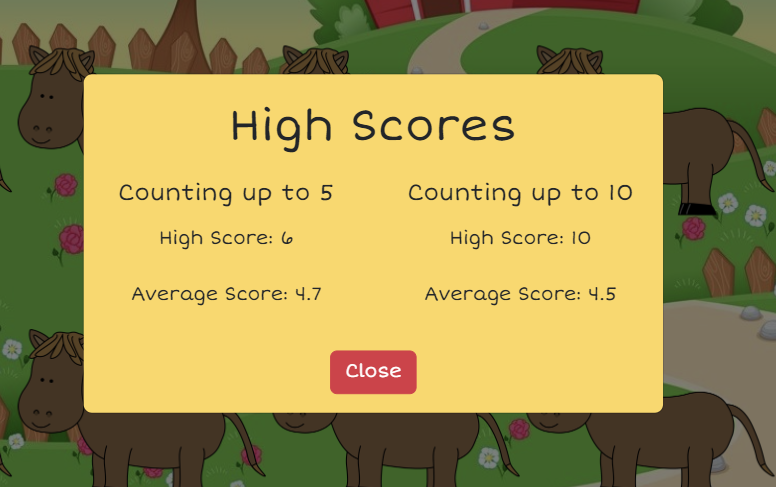
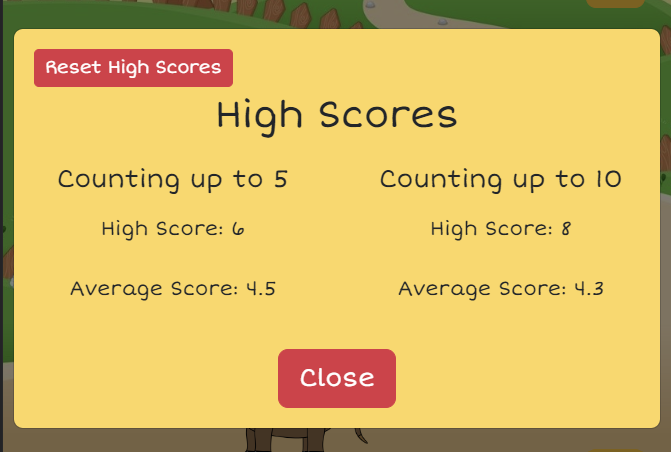
Add high score reset button to high scores modal

diff --git a/assets/js/script.js b/assets/js/script.js
@@ -12,13 +12,6 @@ let game = {
     muted: true
 };
 
-// localStorage.setItem("easyHighScore", 0);
-// localStorage.setItem("hardHighScore", 0);
-// localStorage.setItem("easyAverage", 0);
-// localStorage.setItem("hardAverage", 0);
-// localStorage.setItem("easyGames", 0);
-// localStorage.setItem("hardGames", 0);
-
 // Adds event listeners to reset, sound buttons and menu buttons, then launches the startGame modal
 document.addEventListener("DOMContentLoaded", function() {
     $('.sound').click(function() {
@@ -33,6 +26,7 @@ document.addEventListener("DOMContentLoaded", function() {
     $('.high-scores-btn').click(function() {
         $('#highScoreModal').modal('show');
     });
+    $('#reset-scores-btn').click(resetStoredScores);
 });
 
 function checkForStoredScores() {
@@ -42,6 +36,16 @@ function checkForStoredScores() {
     if (localStorage.getItem('hardHighScore') === null) {
         localStorage.setItem('hardHighScore', 0);
     }
+}
+
+function resetStoredScores() {
+localStorage.setItem("easyHighScore", 0);
+localStorage.setItem("hardHighScore", 0);
+localStorage.setItem("easyAverage", 0);
+localStorage.setItem("hardAverage", 0);
+localStorage.setItem("easyGames", 0);
+localStorage.setItem("hardGames", 0);
+displayStoredScores();
 }
 
 // If sound is NOT muted: stops the current audio and plays the button click audio

diff --git a/index.html b/index.html
@@ -90,6 +90,7 @@
         <div class="modal-dialog modal-dialog-centered">
             <div class="modal-content modal-background">
                 <div class="modal-header">
+                    <button class="btn btn-danger btn-sm" id="reset-scores-btn">Reset High Scores</button>
                     <h1 class="modal-title text-center">High Scores</h1>
                 </div>
                 <div class="modal-body stored-scores-display text-center container">
@@ -107,7 +108,7 @@
                     </div>                    
                 </div>
                 <div class="modal-footer">
-                    <button class="btn btn-danger" data-bs-dismiss="modal">Close</button>
+                    <button class="btn btn-danger btn-lg" data-bs-dismiss="modal">Close</button>
                 </div>
             </div>
         </div>

diff --git a/assets/css/style.css b/assets/css/style.css
@@ -89,6 +89,10 @@ header {
     margin: 10px;
 }
 
+.scores:hover {
+    pointer-events: none;
+}
+
 /* Modals */
 
 .modal-background {

diff --git a/README.md b/README.md
@@ -183,6 +183,7 @@ I've used [Balsamiq](https://balsamiq.com/wireframes) to design my site wirefram
     - Displays a high score for both levels of difficulty
     - Displays an average score for both levels of difficulty (rounded to one decimal place of accuracy)
     - Has a prominent close button at the bottom of the modal but this can also be closed by clicking anywhere on the screen
+    - Has a button to reset the high scores
 
 ![screenshot](documentation/features/high-scores-modal.png)
 
